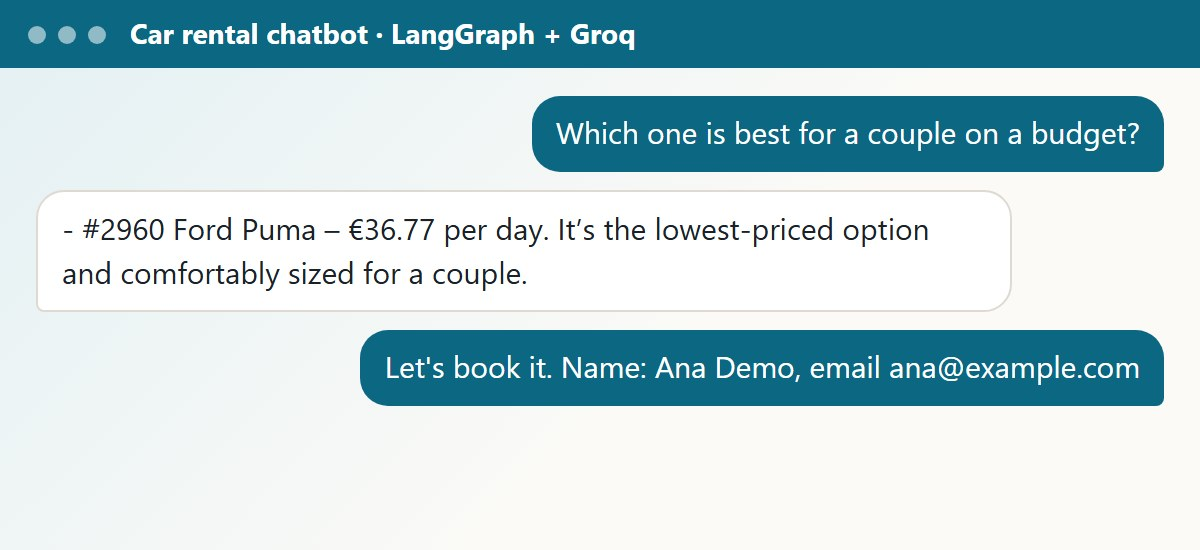
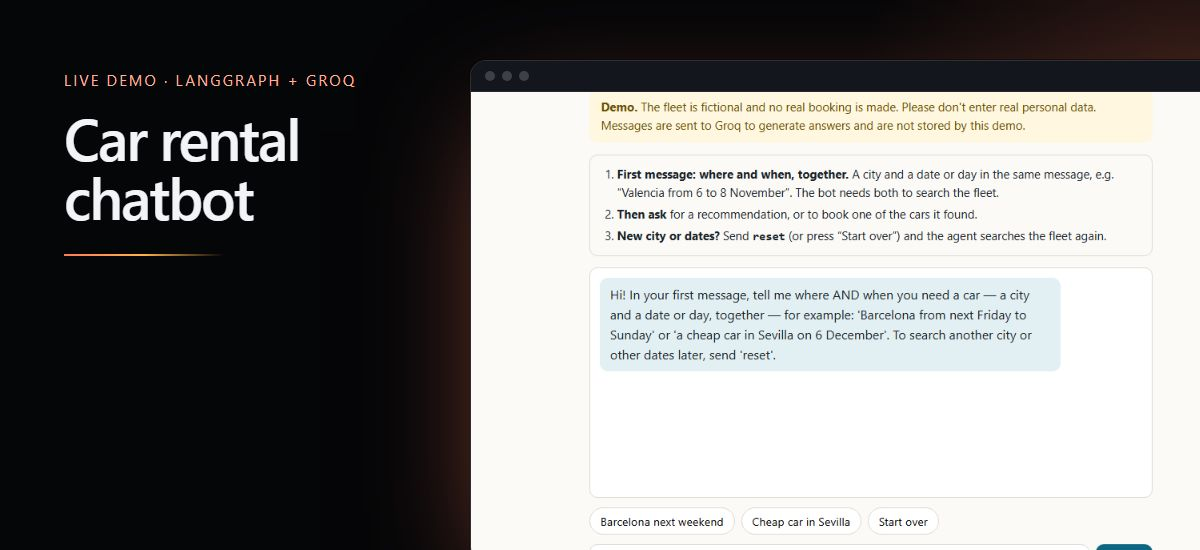
Horizonte as the umbrella project; required cover images
- Earth-observation/weather work are Horizonte modules (content in projects/en/horizonte/,
  pages at /projects/horizonte/<module>/), listed inside Horizonte, not as separate projects
- Satellite viewer and Weather data warehouse are the first two modules; old warehouse URL redirects
- Cover image is now required by the schema; all covers made with scripts/cover/cover.html
  (real screenshots framed on the project colours) and documented in the new-app guide

diff --git a/scripts/cover/cover.html b/scripts/cover/cover.html
@@ -1,0 +1,55 @@
+<!doctype html>
+<html>
+<!-- Portfolio cover template (1200x550). Usage: docs/new-app-guide.md, section 6. -->
+<head>
+<meta charset="utf-8">
+<style>
+  /* Cover template: 1200x550. Params via URL: img, title, label, a1, a2 */
+  html, body { margin: 0; width: 1200px; height: 550px; overflow: hidden; }
+  body {
+    background:
+      radial-gradient(55% 80% at 85% 100%, var(--a2g), transparent 70%),
+      radial-gradient(40% 60% at 100% 10%, var(--a1g), transparent 70%),
+      #050608;
+    font-family: 'Inter Variable', 'Segoe UI', system-ui, sans-serif;
+    color: #f2f4f7;
+    position: relative;
+  }
+  .text { position: absolute; left: 64px; top: 70px; width: 380px; }
+  .label { font-size: 15px; letter-spacing: .14em; text-transform: uppercase; color: var(--a1t); margin: 0 0 18px; }
+  h1 { font-size: 58px; line-height: 1.02; letter-spacing: -.035em; font-weight: 500; margin: 0; }
+  .line { margin-top: 28px; width: 160px; height: 2px; background: linear-gradient(90deg, var(--a1), var(--a2), transparent); }
+  .window {
+    position: absolute; left: 470px; top: 60px; width: 800px;
+    border-radius: 16px; overflow: hidden;
+    border: 1px solid rgba(255,255,255,.14);
+    box-shadow: 0 40px 120px -30px var(--a1g2), 0 0 0 1px rgba(0,0,0,.6);
+    background: #0c0e13;
+  }
+  .bar { height: 30px; display: flex; align-items: center; gap: 7px; padding: 0 14px; background: #13161d; border-bottom: 1px solid rgba(255,255,255,.08); }
+  .bar span { width: 10px; height: 10px; border-radius: 50%; background: rgba(255,255,255,.18); }
+  .window img { display: block; width: 100%; height: 470px; object-fit: cover; object-position: var(--pos, top); }
+</style>
+</head>
+<body>
+  <div class="text">
+    <p class="label" id="label"></p>
+    <h1 id="title"></h1>
+    <div class="line"></div>
+  </div>
+  <div class="window"><div class="bar"><span></span><span></span><span></span></div><img id="img" alt=""></div>
+<script>
+  const q = new URLSearchParams(location.search);
+  const a1 = q.get('a1') || '#7c9cff', a2 = q.get('a2') || '#a678ff';
+  const mix = (c, p) => `color-mix(in srgb, ${c} ${p}%, transparent)`;
+  const r = document.documentElement.style;
+  r.setProperty('--a1', a1); r.setProperty('--a2', a2);
+  r.setProperty('--a1g', mix(a1, 16)); r.setProperty('--a2g', mix(a2, 30)); r.setProperty('--a1g2', mix(a1, 55));
+  r.setProperty('--a1t', `color-mix(in srgb, ${a1} 60%, white)`);
+  document.getElementById('title').textContent = q.get('title') || '';
+  document.getElementById('label').textContent = q.get('label') || '';
+  document.getElementById('img').src = q.get('img');
+  r.setProperty('--pos', q.get('pos') || 'top');
+</script>
+</body>
+</html>

diff --git a/src/lib/projects.ts b/src/lib/projects.ts
@@ -13,8 +13,30 @@ export function projectSlug(project: Project): string {
   return project.id.split('/').slice(1).join('/');
 }
 
-/** Projects for one locale, ordered by `order` then title. */
-export async function getProjects(locale: string = defaultLocale): Promise<Project[]> {
+/**
+ * A module is a project stored inside another project's folder, e.g.
+ * src/content/projects/en/horizonte/weather-warehouse.md belongs to Horizonte.
+ * Modules are shown inside their parent, never as separate projects.
+ */
+export function parentSlug(project: Project): string | null {
+  const parts = projectSlug(project).split('/');
+  return parts.length > 1 ? parts.slice(0, -1).join('/') : null;
+}
+
+const byOrder = (a: Project, b: Project) => a.data.order - b.data.order || a.data.title.localeCompare(b.data.title);
+
+/** Every project and module of one locale (used to build the pages). */
+export async function getAllProjects(locale: string = defaultLocale): Promise<Project[]> {
   const all = await getCollection('projects', (entry) => projectLocale(entry) === locale);
-  return all.sort((a, b) => a.data.order - b.data.order || a.data.title.localeCompare(b.data.title));
+  return all.sort(byOrder);
+}
+
+/** Top-level projects for one locale, ordered by `order` then title. */
+export async function getProjects(locale: string = defaultLocale): Promise<Project[]> {
+  return (await getAllProjects(locale)).filter((project) => parentSlug(project) === null);
+}
+
+/** Modules of a project, e.g. getModules('horizonte'). */
+export async function getModules(parent: string, locale: string = defaultLocale): Promise<Project[]> {
+  return (await getAllProjects(locale)).filter((project) => parentSlug(project) === parent);
 }

diff --git a/src/content.config.ts b/src/content.config.ts
@@ -26,13 +26,12 @@ const projects = defineCollection({
     /** Accent colours of the project page and card (see src/config/themes.ts). */
     theme: z.enum(themeIds).default('aurora'),
     technologies: z.array(z.string()).default([]),
-    image: z
-      .object({
-        src: z.string().startsWith('/'),
-        alt: z.string().min(1),
-        credit: z.string().optional(),
-      })
-      .optional(),
+    /** Cover image, required so no project looks unfinished (made with scripts/cover/cover.html). */
+    image: z.object({
+      src: z.string().startsWith('/'),
+      alt: z.string().min(1),
+      credit: z.string().optional(),
+    }),
     demoUrl: z.url().optional(),
     /** Text of the demo button, e.g. "Try Chatbot". Defaults to "Open demo". */
     demoLabel: z.string().min(1).max(40).optional(),

diff --git a/src/i18n/en.ts b/src/i18n/en.ts
@@ -51,6 +51,9 @@ export const en = {
   'projects.status.in-progress': 'In progress',
   'projects.status.repository': 'Repository',
   'projects.back': 'All projects',
+  'projects.module': 'Module',
+  'projects.modules': 'Modules',
+  'projects.modulesEyebrow': 'Inside this project',
 
   'about.eyebrow': 'Profile',
   'about.title': 'About',

diff --git a/src/content/projects/en/horizonte.md b/src/content/projects/en/horizonte.md
@@ -1,43 +1,40 @@
 ---
 title: Horizonte
-summary: A viewer for recent Meteosat image sequences over Spain and the western Mediterranean, with explicit observation times, sources and limitations.
+summary: Earth observation, weather and satellites over Spain and the western Mediterranean — one project made of small modules that share data and design, from a Meteosat viewer to an hourly weather data warehouse.
 status: live
 featured: true
 order: 1
-areas: [earth-observation, software, architecture]
+areas: [earth-observation, architecture, software, ml]
 theme: sky
-technologies: [TypeScript, Vite, Leaflet, OGC WMS, Vitest, Cloudflare]
+technologies: [TypeScript, Python, Leaflet, DuckDB, OGC WMS, GitHub Actions, Cloudflare Workers, Hugging Face Storage]
 image:
-  src: /images/projects/horizonte.jpg
-  alt: Meteosat GeoColour image of the Iberian Peninsula and the western Mediterranean at 12:00 UTC on 18 October 2026, with a band of cloud over eastern Spain.
-  credit: Contains modified EUMETSAT Meteosat data 2026 (MTG-I1 FCI, GeoColour RGB, 18 Oct 2026 12:00 UTC).
+  src: /images/projects/horizonte-cover.jpg
+  alt: Screenshot of the Horizonte hub, with its two modules — a Meteosat satellite image of Spain and a live map of forecast temperatures in the 52 provincial capitals.
+  credit: Screenshot of the Horizonte app. Satellite image contains modified EUMETSAT Meteosat data 2026; forecasts by Open-Meteo (CC BY 4.0).
 demoUrl: https://horizonte.gabriel-olius.workers.dev
+demoLabel: Open Horizonte
 repoUrl: https://github.com/6roli/Horizonte
 repoIsPublic: false
-needsReview: false
+needsReview: true
 problem: >-
-  Satellite imagery of the weather over Spain is easy to find but often lacks context: which satellite and
-  product it is, when it was observed, how old it is and what the colours mean. Horizonte is the first step of
-  a wider app about weather, extreme events, the ocean and the coast, starting with a small, honest scope.
+  Weather and Earth-observation data for Spain is public but scattered: satellite images without context, forecasts
+  that are overwritten every hour, observations in another format. Horizonte brings them together as a set of small
+  tools that each answer one question well, and that can be combined later — for example to compare what a satellite
+  saw, what was forecast and what a station measured.
 data: >-
-  Image products from EUMETSAT's public EUMETView Web Map Service (WMS) for Meteosat Third Generation
-  (MTG-I1, FCI instrument, full disk every 10 minutes): the IR 10.5 µm channel and the GeoColour RGB composite.
-  These visualisations are EUMETSAT "Core" products, free to reuse under CC BY 4.0 with attribution. They are
-  coloured images for viewing, not the original numerical data needed for scientific analysis.
+  EUMETSAT Meteosat imagery (EUMETView WMS, CC BY 4.0), Open-Meteo forecasts (CC BY 4.0) and AEMET OpenData
+  observations. Every module states its sources, licences, times and limitations.
 method: >-
-  When the page opens, the browser asks EUMETView which observation times exist for each layer, picks the last
-  six hours of times common to both layers and loads the corresponding crops directly from EUMETSAT, a few at a
-  time. Every frame shows its observation time in UTC and Spanish time, and the data age. If EUMETView cannot be
-  reached, the app shows a small, clearly labelled historical sample bundled with it.
+  Each module lives in its own repository with its own tests and deployment, so one can change or fail without
+  breaking the others. They share a visual identity and exchange data through simple public files (Parquet and a
+  small JSON snapshot), which keeps them in sync without a shared server.
 results: >-
-  A public, static web app that plays the latest six hours of observations, states the source, product, observation
-  time (UTC and local) and data age, and warns when data is stale, missing or a historical sample.
+  Two modules are running: a viewer for the latest six hours of Meteosat images, and a weather data warehouse that
+  has collected forecasts and observations for the 52 provincial capitals every hour since 18 October 2026.
 limitations: >-
-  Images are reprojected, compressed visualisations, not calibrated measurements. EUMETView publishes each image
-  some 15–30 minutes after the scan, so nothing is real time. Horizonte does not issue warnings, forecasts or
-  detections; for official warnings use AEMET and Meteoalarm.
+  The modules are young and independent; combined views (for example satellite images next to forecast errors) are
+  the next step, not a feature yet. Horizonte does not issue warnings: for official warnings use AEMET and Meteoalarm.
 architecture: >-
-  Static site (Vite + TypeScript + Leaflet) served by Cloudflare, built from its own GitHub repository on every
-  push. The browser reads EUMETView's WMS time dimension and loads GetMap images directly. Interface, data access
-  and validation are separate modules with unit tests. No server, no database, no scheduled jobs.
+  Static web front ends on Cloudflare, data pipelines on GitHub Actions, and public files in a Hugging Face Storage
+  Bucket. Everything runs on free plans, with no server to maintain.
 ---

diff --git a/src/content/projects/en/horizonte/satellite-viewer.md b/src/content/projects/en/horizonte/satellite-viewer.md
@@ -1,0 +1,43 @@
+---
+title: Satellite viewer
+summary: A viewer for recent Meteosat image sequences over Spain and the western Mediterranean, with explicit observation times, sources and limitations.
+status: live
+featured: false
+order: 1
+areas: [earth-observation, software, architecture]
+theme: sky
+technologies: [TypeScript, Vite, Leaflet, OGC WMS, Vitest, Cloudflare]
+image:
+  src: /images/projects/satellite-viewer.jpg
+  alt: Meteosat GeoColour image of the Iberian Peninsula and the western Mediterranean at 12:00 UTC on 18 October 2026, with a band of cloud over eastern Spain.
+  credit: Contains modified EUMETSAT Meteosat data 2026 (MTG-I1 FCI, GeoColour RGB, 18 Oct 2026 12:00 UTC).
+demoUrl: https://horizonte.gabriel-olius.workers.dev/viewer/
+repoUrl: https://github.com/6roli/Horizonte
+repoIsPublic: false
+needsReview: false
+problem: >-
+  Satellite imagery of the weather over Spain is easy to find but often lacks context: which satellite and
+  product it is, when it was observed, how old it is and what the colours mean. The viewer was Horizonte's first
+  module: a small, honest starting point for a wider project about weather, extreme events, the ocean and the coast.
+data: >-
+  Image products from EUMETSAT's public EUMETView Web Map Service (WMS) for Meteosat Third Generation
+  (MTG-I1, FCI instrument, full disk every 10 minutes): the IR 10.5 µm channel and the GeoColour RGB composite.
+  These visualisations are EUMETSAT "Core" products, free to reuse under CC BY 4.0 with attribution. They are
+  coloured images for viewing, not the original numerical data needed for scientific analysis.
+method: >-
+  When the page opens, the browser asks EUMETView which observation times exist for each layer, picks the last
+  six hours of times common to both layers and loads the corresponding crops directly from EUMETSAT, a few at a
+  time. Every frame shows its observation time in UTC and Spanish time, and the data age. If EUMETView cannot be
+  reached, the app shows a small, clearly labelled historical sample bundled with it.
+results: >-
+  A public, static web app that plays the latest six hours of observations, states the source, product, observation
+  time (UTC and local) and data age, and warns when data is stale, missing or a historical sample.
+limitations: >-
+  Images are reprojected, compressed visualisations, not calibrated measurements. EUMETView publishes each image
+  some 15–30 minutes after the scan, so nothing is real time. Horizonte does not issue warnings, forecasts or
+  detections; for official warnings use AEMET and Meteoalarm.
+architecture: >-
+  Static site (Vite + TypeScript + Leaflet) served by Cloudflare, built from its own GitHub repository on every
+  push. The browser reads EUMETView's WMS time dimension and loads GetMap images directly. Interface, data access
+  and validation are separate modules with unit tests. No server, no database, no scheduled jobs.
+---

diff --git a/docs/new-app-guide.md b/docs/new-app-guide.md
@@ -66,9 +66,21 @@ Add `<app>.example.com` as a custom domain of the new Cloudflare project (see `d
 In the Portfolio repository:
 
 1. Add the app to `apps` in `src/config/site.ts`.
-2. Add `src/content/projects/en/<app>.md` with problem, data, method, results, limitations and architecture,
-   plus a real image with its credit.
-3. Push — the portfolio redeploys by itself.
+2. Add `src/content/projects/en/<app>.md` with problem, data, method, results, limitations and architecture.
+   **Earth observation, satellites, weather forecasting and navigation are Horizonte modules**: put them in
+   `src/content/projects/en/horizonte/<module>.md`. They then appear inside the Horizonte page (at
+   `/projects/horizonte/<module>/`) instead of as separate projects, and get a card in the Horizonte hub app.
+3. **Add a cover image — required, the build fails without one.** Use the shared template so every cover looks
+   the same (1200×550, real screenshot framed on the project's colours):
+   ```bash
+   CH="/c/Program Files/Google/Chrome/Application/chrome.exe"
+   # 1) screenshot of the real app (~1000 px wide)
+   "$CH" --headless=new --hide-scrollbars --window-size=1000,900 --screenshot=scripts/cover/<app>-src.png <app URL>
+   # 2) frame it (title, label, the theme's two colours from src/config/themes.ts; pos = which part to show)
+   "$CH" --headless=new --hide-scrollbars --allow-file-access-from-files --window-size=1200,550      --screenshot=public/images/projects/<app>.jpg      "file:///C:/PORTFOLIO/portfolio/scripts/cover/cover.html?img=<app>-src.png&title=<Title>&label=<Label>&a1=%23...&a2=%23...&pos=top"
+   ```
+   Delete the `-src.png` afterwards (it is git-ignored). Covers are also used as the social preview image.
+4. Push — the portfolio redeploys by itself.
 
 ## 7. Before calling it done
 
@@ -77,4 +89,5 @@ In the Portfolio repository:
 - [ ] Loading, error and stale/no-data states tested
 - [ ] No secrets, `.env` files, personal data or large raw files committed
 - [ ] Public URL opened over HTTPS, and the link back to the portfolio works
+- [ ] Portfolio project page has a cover image made with `scripts/cover/cover.html`
 - [ ] Free-plan usage estimated (builds, external API limits)

diff --git a/src/content/projects/en/horizonte/weather-warehouse.md b/src/content/projects/en/horizonte/weather-warehouse.md
@@ -2,14 +2,18 @@
 title: Weather data warehouse
 summary: An hourly data warehouse that keeps every weather forecast for Spain's 52 provincial capitals next to what was actually observed — the dataset needed to measure forecast accuracy and train prediction models.
 status: live
-featured: true
-order: 5
+featured: false
+order: 2
 areas: [architecture, software, ml]
-theme: moss
+theme: sky
+image:
+  src: /images/projects/weather-warehouse.jpg
+  alt: Screenshot of Horizonte's Weather now page, a dark map of Spain with the forecast temperature of each provincial capital and a table with 24-hour temperature curves, built from the warehouse's latest hourly run.
+  credit: Screenshot of the Horizonte app, 20 October 2026. Forecasts by Open-Meteo (CC BY 4.0); observations, Fuente AEMET.
 technologies: [Python, DuckDB, SQL, Parquet, GitHub Actions, Hugging Face Storage, Cloudflare Workers, pytest]
 liveSnapshot: https://huggingface.co/buckets/groli/weather-warehouse/resolve/gold/web/snapshot.json
-demoUrl: https://huggingface.co/buckets/groli/weather-warehouse
-demoLabel: Browse the data
+demoUrl: https://horizonte.gabriel-olius.workers.dev/weather/
+demoLabel: Open Weather now
 repoUrl: https://github.com/6roli/weather-warehouse
 repoIsPublic: true
 needsReview: true
@@ -35,7 +39,7 @@ limitations: >-
   The dataset is days old, not years: longer lead times and seasonal effects cannot be evaluated yet. The forecast
   time is the download hour, not the model run time. A single station may not represent a whole city. On the first
   day GitHub's scheduler skipped most hours, so forecasts from those hours are missing (observations were recovered,
-  since each AEMET download covers 24 hours); a Cloudflare Cron Trigger is being added to start runs on time.
+  since each AEMET download covers 24 hours); since 19 October a Cloudflare Cron Trigger starts every run on time.
 architecture: >-
   A GitHub Actions workflow runs every hour, started on time by a Cloudflare Cron Trigger with GitHub's own
   schedule as a fallback. DuckDB SQL builds bronze, silver and gold, and the files go to a public Hugging Face

diff --git a/src/content/projects/en/car-rental-chatbot.md b/src/content/projects/en/car-rental-chatbot.md
@@ -9,8 +9,8 @@ theme: ember
 technologies: [Python, LangGraph, LangChain, Groq API, SQLite, Flask, pytest, Render]
 image:
   src: /images/projects/car-rental-chatbot.jpg
-  alt: Chat bubbles from the car rental chatbot. A visitor asks which car is best for a couple on a budget; the bot recommends the Ford Puma at 36.77 euros per day; the visitor asks to book it with made-up details.
-  credit: Messages copied verbatim from a conversation with the live demo, 18 October 2026.
+  alt: Screenshot of the car rental chatbot demo, with the three usage rules above the chat and the welcome message asking for a city and dates in the same message.
+  credit: Screenshot of the live demo, 20 October 2026.
 demoUrl: https://car-rental-chatbot.onrender.com
 demoLabel: Try Chatbot
 usage:

diff --git a/src/content/projects/en/chordsai.md b/src/content/projects/en/chordsai.md
@@ -6,6 +6,10 @@ featured: true
 order: 15
 areas: [ml, software]
 theme: violet
+image:
+  src: /images/projects/chordsai.jpg
+  alt: Screenshot of the ChordsAI demo, with example prompts, the message box and the two-octave on-screen piano from C4 to C6.
+  credit: Screenshot of the live demo, 20 October 2026.
 technologies: [Python, LangGraph, Groq API, Tavily, Flask, Web Audio API, pytest, Render]
 demoUrl: https://chordsai.onrender.com
 demoLabel: Try ChordsAI
